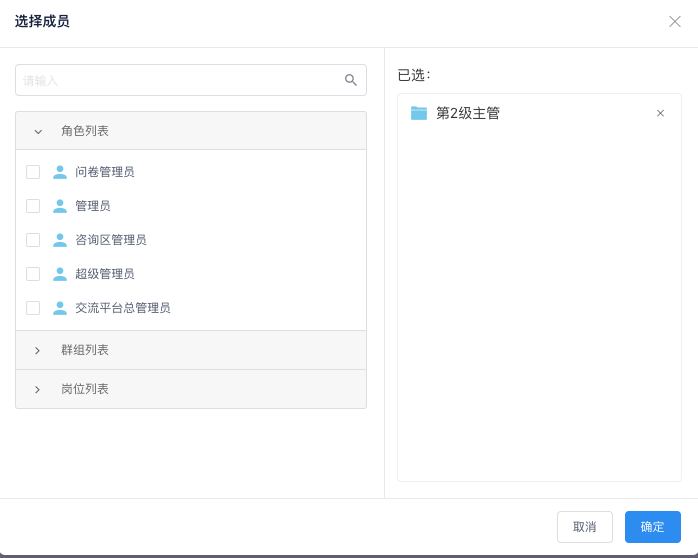
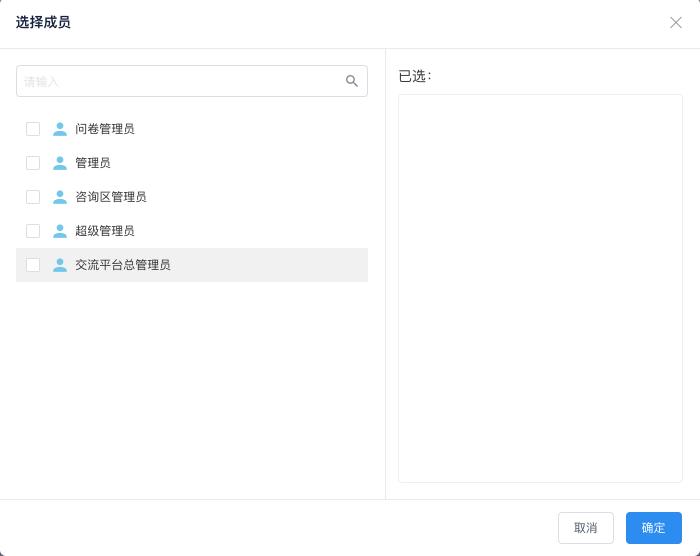
修改返回修状态说明错误

diff --git a/docs/page/process.md b/docs/page/process.md
@@ -65,8 +65,8 @@ export default {
     methods: {
         openSelect(){
             var config = {
-                deptId : ['ee8efbe2bfbb437d9a8da1f6d12bdcfc'],
-                condition : ['org'],
+                deptId : ['0af424d6dcb511e8a3b10242ac110008'],
+                condition : ['org', 'role','charge','group' , 'post']
                 type : 2, // 1 ：默认 ,选人、选部门、角色列表、主管（配合condition） ； 2 : 只选人
                 chargeLevel : 10,
                 title : '选择成员',
@@ -104,7 +104,7 @@ export default {
 | ------ | ------ | ------ | ------ |
 | title | 弹出框标题 | String | '选择成员' |
 | deptId | 根节点id | String | 必填 |
-| condition | 表示插件提供‘组织结构’（'org'）、‘角色’(role)、‘主管’(charge) | Array | 必填 : [ 'org' , 'role' , 'charge'] |
+| condition | 表示插件提供‘组织结构’（'org'）、‘角色’(role)、‘主管’(charge)、‘群组’(group)、‘post’(岗位) | Array | 必填 : [ 'org' , 'role' , 'charge'，'group'，'post'] |
 | type | 1: 选择人、部门、角色、岗位、群组及主管，配合condition使用 ； 2 ：表示选人 | Number | 1 |
 | chargeLevel | 主管等级 | Number | 10 |
 | muliteChoice | 1 : 多选 2 : 单选 | Number | 1(多选) |
@@ -132,11 +132,11 @@ export default {
 
 | 值 | 说明 |
 | ------ | ------ |
-| 0 | 部门 |
-| 1 | 人员 |
+| 1 | 部门 |
+| 2 | 人员 |
 | 3 | 角色 |
-| 4 | 岗位 |
-| 5 | 群组 |
+| 4 | 群组 |
+| 5 | 岗位 |
 | 6 | 主管 |
 
 
@@ -147,8 +147,8 @@ export default {
 ``` js
     var config = {
         deptId : ['ee8efbe2bfbb437d9a8da1f6d12bdcfc'],
-        condition : ['org'],
-        type : 2, // 1 ：默认 ,选人、选部门、角色列表、主管（配合condition） ； 2 : 只选人
+        condition : ['role'],
+        type : 1, // 1 ：默认 ,选人、选部门、角色列表、主管（配合condition） ； 2 : 只选人
         chargeLevel : 10,
         title : '选择成员',
         muliteChoice : 2 ,//1 : 多选 2 : 单选
@@ -174,8 +174,22 @@ export default {
 ```
 ![avatar](../image/process/2.png)
 
-
 ### 效果图三： 
+``` js
+    var config = {
+        deptId : ['ee8efbe2bfbb437d9a8da1f6d12bdcfc'],
+        condition : ['group'],
+        type : 2, 
+        chargeLevel : 10,
+        title : '选择成员',
+        muliteChoice : 2 ,
+        data : []
+    }
+```
+![avatar](../image/process/5.png)
+
+
+### 效果图四： 
 ``` js
     var config = {
         deptId : ['ee8efbe2bfbb437d9a8da1f6d12bdcfc'],
@@ -190,7 +204,7 @@ export default {
 ![avatar](../image/process/3.png)
 
 
-### 效果图四： 
+### 效果图五： 
 ``` js
     var config = {
         deptId : ['ee8efbe2bfbb437d9a8da1f6d12bdcfc'],
